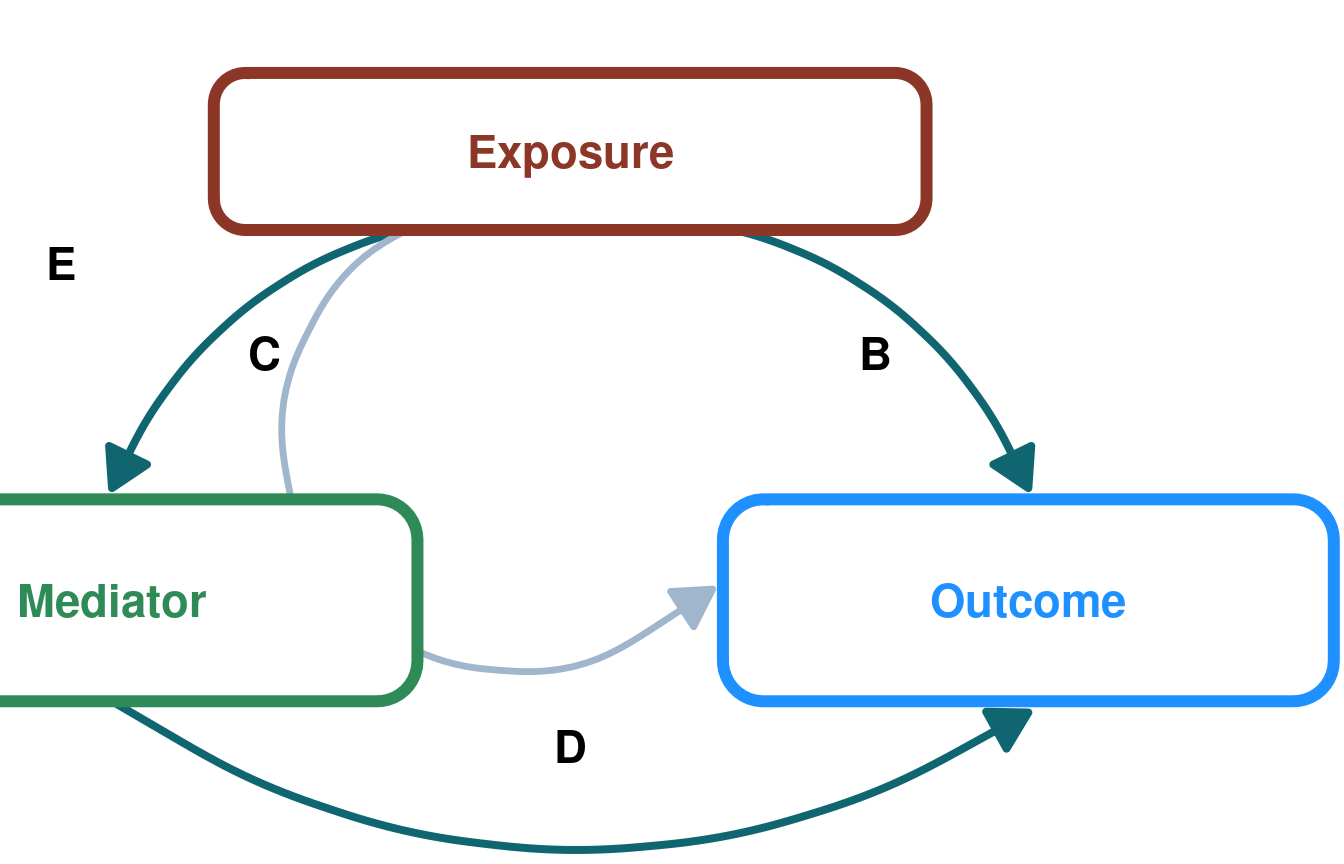
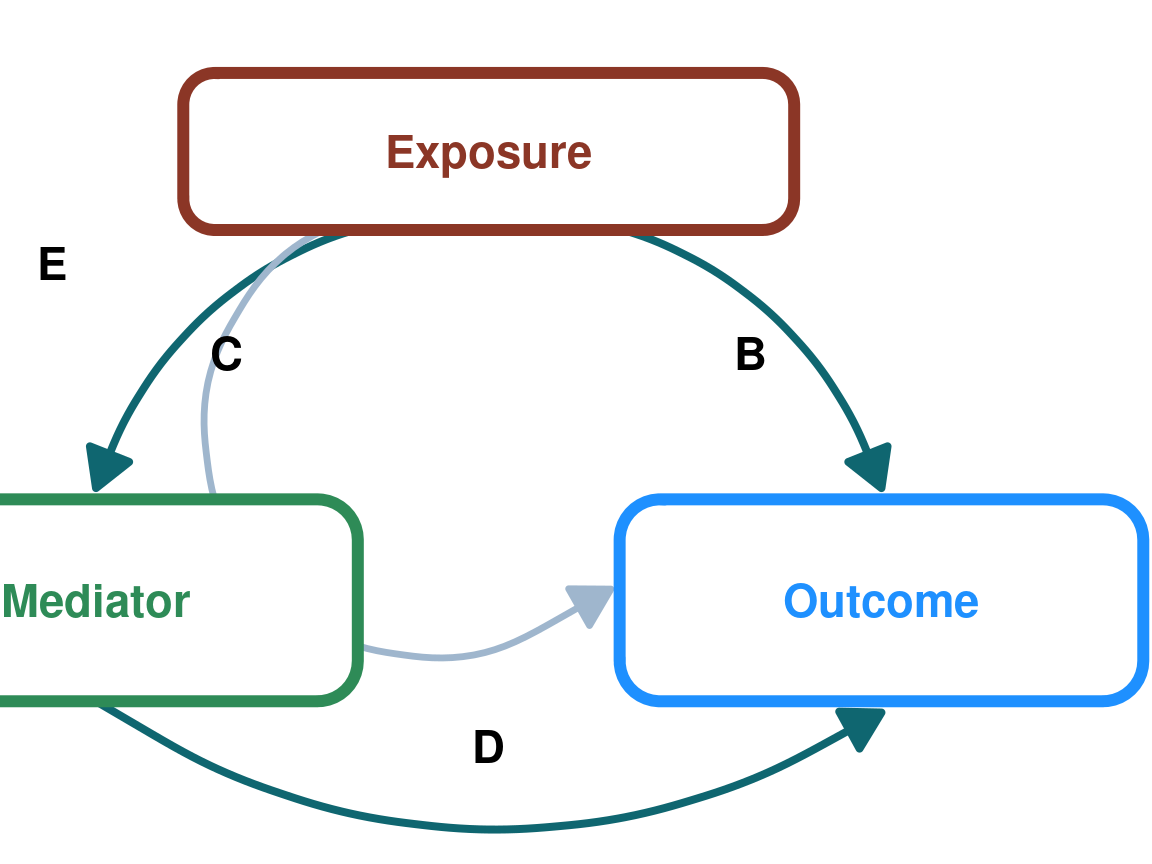
Update website with revised DAG figure dimensions

diff --git a/docs/simulations.html b/docs/simulations.html
@@ -301,7 +301,7 @@ pre > code.sourceCode > span > a:first-child::before { text-decoration: underlin
 <div class="cell-output-display">
 <div>
 <figure class="figure">
-<p><img src="simulations_files/figure-html/unnamed-chunk-3-1.png" class="img-fluid figure-img" width="672"></p>
+<p><img src="simulations_files/figure-html/unnamed-chunk-3-1.png" class="img-fluid figure-img" width="576"></p>
 </figure>
 </div>
 </div>
